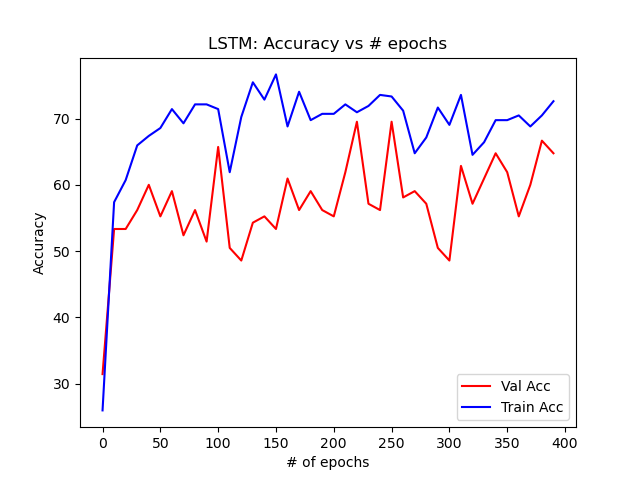
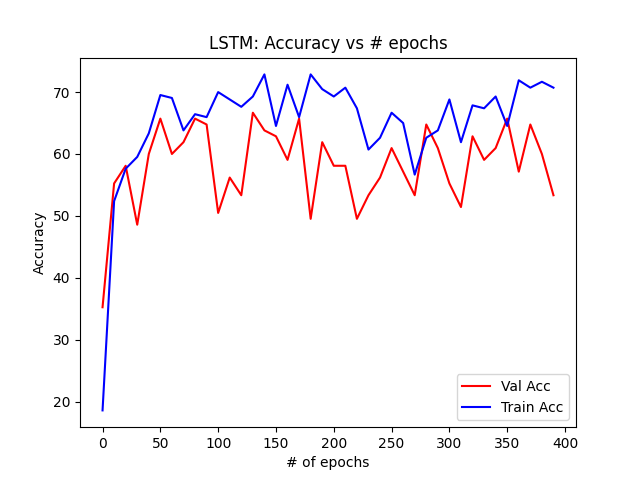
Autoencoder LSTM y 30s GenreFeatureData

diff --git a/LSTM-Music-Genre-Classification-master/LSTM-Music-Genre-Classification-master/lstm_genre_classifier_pytorch.py b/LSTM-Music-Genre-Classification-master/LSTM-Music-Genre-Classification-master/lstm_genre_classifier_pytorch.py
@@ -26,6 +26,49 @@ from GenreFeatureData import (
     GenreFeatureData,
 )  # local python class with Audio feature extraction (librosa)
 
+import torch
+from torch import nn
+from torch.autograd import Variable
+import torch.nn.functional as F
+
+
+class StackedAutoencoder(nn.Module):
+    def __init__(self, input_dim, hidden_dims):
+        super(StackedAutoencoder, self).__init__()
+        
+        self.encoders = nn.ModuleList()
+        self.decoders = nn.ModuleList()
+        
+        # Construir los encoders y decoders
+        for i in range(len(hidden_dims) - 1):
+            encoder = nn.Linear(hidden_dims[i], hidden_dims[i+1])
+            decoder = nn.Linear(hidden_dims[i+1], hidden_dims[i])
+            
+            self.encoders.append(encoder)
+            self.decoders.append(decoder)
+        
+    def forward(self, x):
+        encoded = x
+        
+        # Codificar
+        print("encoder")
+        for encoder in self.encoders:
+            print(encoded.size())
+            encoded = F.relu(encoder(encoded))
+        
+        decoded = encoded
+        
+        self.decoders = nn.ModuleList(reversed(self.decoders))
+        
+        # Decodificar
+        print("decoder")
+        for decoder in self.decoders:
+            print(decoded.size())
+            decoded = F.relu(decoder(decoded))
+        
+        return decoded
+
+
 
 # class definition
 class LSTM(nn.Module):
@@ -37,27 +80,25 @@ class LSTM(nn.Module):
         self.num_layers = num_layers
 
         # setup LSTM layer
-        self.lstm = nn.LSTM(self.input_dim, self.hidden_dim, self.num_layers, bias = False, dropout = 0.5)
+        self.lstm = nn.LSTM(self.input_dim, self.hidden_dim, self.num_layers, bias=False, dropout=0.5)
 
         # batchnormalisation
-        self.batch = nn.BatchNorm1d(num_features = self.hidden_dim)
+        self.batch = nn.BatchNorm1d(num_features=self.hidden_dim)
+
+        input_size = input_dim
+        hidden_sizes = [input_dim, hidden_dim, 64, 32]  # Tamaños de las capas ocultas
+
+        # Crear el Stacked Autoencoder
+        self.stacked_autoencoder = StackedAutoencoder(input_size, hidden_sizes)
 
         # setup output layer
         self.linear = nn.Linear(self.hidden_dim, output_dim)
 
-        self.conv1 = nn.Conv1d(in_channels=35, out_channels=32, kernel_size=3, padding = "same")
-        self.maxpool = nn.MaxPool1d(kernel_size=2)
-
-
     def forward(self, input, h, c):
-        # lstm step => then ONLY take the sequence's final timetep to pass into the linear/dense layer
-        # Note: lstm_out contains outputs for every step of the sequence we are looping over (for BPTT)
-        # but we just need the output of the last step of the sequence, aka lstm_out[-1]
-        conv = self.conv1(input)
-        pool = self.maxpool(conv)
-        batch_size, num_channels, seq_length = pool.size()
-        flattened_output = pool.view(batch_size, -1, seq_length)
-        out, (h, c) = self.lstm(flattened_output, (h, c))
+        out = self.stacked_autoencoder(input)
+        print("forward")
+        print(out.size())
+        out, (h, c) = self.lstm(out, (h, c))
         out = self.batch(out[-1])
         out = self.linear(out)
         return out, h, c
@@ -121,7 +162,7 @@ def main():
 
     loss_function = nn.CrossEntropyLoss()     #nn.NLLLoss()  # expects ouputs from LogSoftmax
 
-    optimizer = optim.Adam(model.parameters(), lr=0.001, weight_decay = 0.1)
+    optimizer = optim.Adam(model.parameters(), lr=0.01, weight_decay = 0.1)
 
     # To keep LSTM stateful between batches, you can set stateful = True, which is not suggested for training
     stateful = False

diff --git a/LSTM-Music-Genre-Classification-master/LSTM-Music-Genre-Classification-master/GenreFeatureData.py b/LSTM-Music-Genre-Classification-master/LSTM-Music-Genre-Classification-master/GenreFeatureData.py
@@ -12,8 +12,6 @@ class GenreFeatureData:
     hop_length = None
     genre_list = [
         "classical",
-        "country",
-        "disco",
         "hiphop",
         "jazz",
         "metal",
@@ -51,13 +49,13 @@ class GenreFeatureData:
         self.all_files_list.extend(self.testfiles_list)
 
         # compute minimum timeseries length, slow to compute, caching pre-computed value of 1290
-        # self.precompute_min_timeseries_len()
-        # print("min(self.timeseries_length_list) ==" + str(min(self.timeseries_length_list)))
-        # self.timeseries_length = min(self.timeseries_length_list)
+        self.precompute_min_timeseries_len()
+        print("min(self.timeseries_length_list) ==" + str(min(self.timeseries_length_list)))
+        self.timeseries_length = min(self.timeseries_length_list)
 
-        self.timeseries_length = (
-            128
-        )   # sequence length == 128, default fftsize == 2048 & hop == 512 @ SR of 22050
+        # self.timeseries_length = (
+        #     128
+        # )   # sequence length == 128, default fftsize == 2048 & hop == 512 @ SR of 22050
         #  equals 128 overlapped windows that cover approx ~3.065 seconds of audio, which is a bit small!
 
     def load_preprocess_data(self):
@@ -100,7 +98,7 @@ class GenreFeatureData:
 
     def precompute_min_timeseries_len(self):
         for file in self.all_files_list:
-            print("Loading " + str(file))
+            # print("Loading " + str(file))
             y, sr = librosa.load(file)
             self.timeseries_length_list.append(math.ceil(len(y) / self.hop_length))
 
